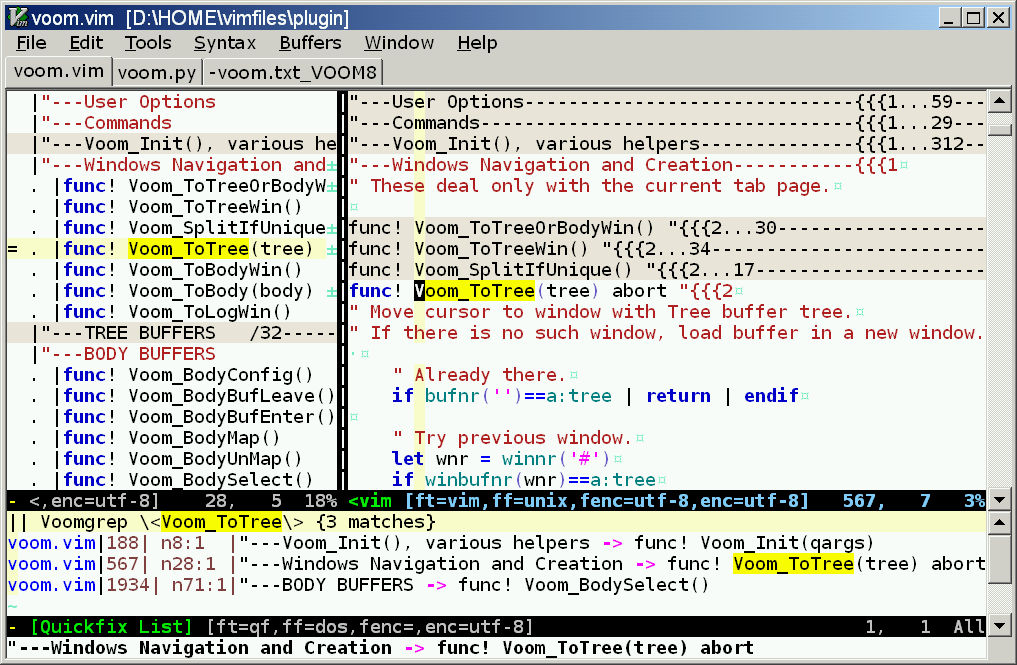
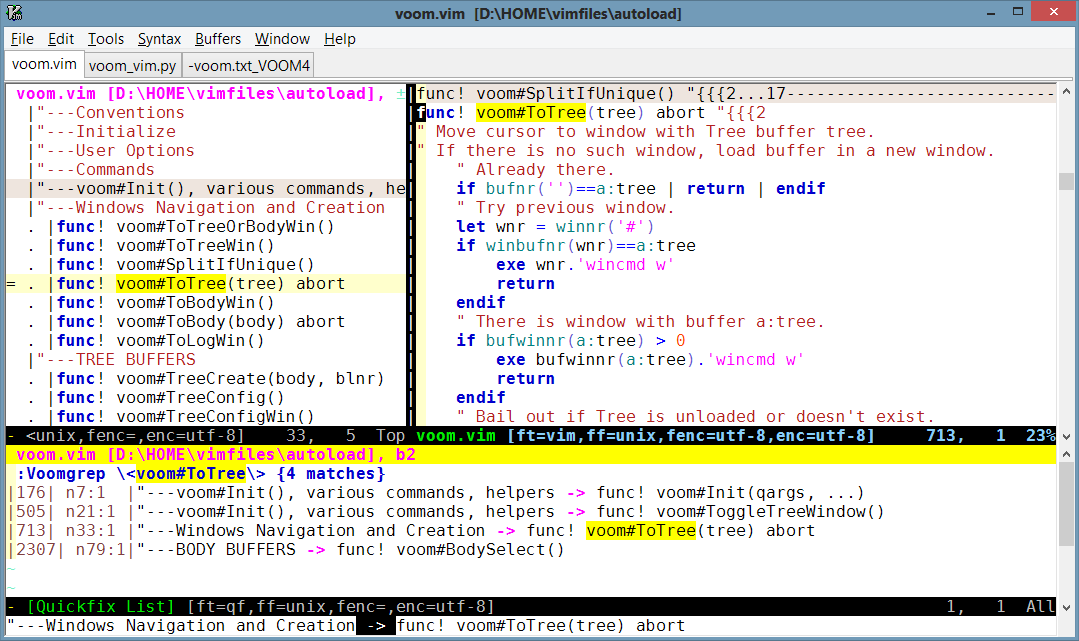
update for VOoM 5.0

diff --git a/index.html b/index.html
@@ -4,7 +4,6 @@
 <title>VOoM: two-pane text outliner</title>
 <meta http-equiv="Content-Language" content="en-us">
 <meta http-equiv="Content-Type" content="text/html; charset=ISO-8859-1">
-<meta name="keywords" content="Vim, VOoM, Vim outliner, VimOutliner, VO, The Vim Outliner, TVO, outliner, outlining, text outliner, two pane outliner, Leo, reStructuredText, markdown, pandoc, asciidoc, txt2tags, wiki, viki, org-mode, orgmode, LaTeX">
 <meta name="description" content="VOoM: Vim two-pane outliner.">
 
 <style type="text/css">
@@ -31,9 +30,25 @@ This page is for screenshots.</p>
 <a href="pics/voom_voomhelp.png"><img class="screenshot" src="pics/voom_voomhelp_small.gif" alt=""></a>
 </td>
 <td>
-Default outline layout after the command <b><tt>:Voom</tt></b>. Outline window (Tree buffer) is on the left.<br>
+The default outline layout after the command <b><tt>:Voom</tt></b>. The outline window (Tree buffer) is on the left.<br>
 <br>
-VOoM help ("doc/voom.txt") is written as an outline, as shown in this screenshot. Note that it uses non-default <a href="http://vimdoc.sourceforge.net/htmldoc/options.html#%27foldmarker%27">fold markers</a>. Otherwise, it's a standard Vim help file. Command <b><tt>:Voomhelp</tt></b> opens this help file as outline in a new tabpage.
+This screenshot shows VOoM help file, "doc/voom.txt", which is written as an outline. It is a standard Vim help file except that it uses non-default <a href="http://vimdoc.sourceforge.net/htmldoc/options.html#%27foldmarker%27">fold markers</a> set from a modeline at the bottom of the file. The command <b><tt>:Voomhelp</tt></b> opens this help file as an outline in a new tabpage.
+</td>
+</tr></table>
+<br><br>
+<hr>
+
+
+
+<!-- split windows {{{1 -->
+<a name="voomhelp_split"></a>
+<h2>split windows</h2>
+<table><tr>
+<td>
+<a href="pics/voom_voomhelp_split.png"><img class="screenshot" src="pics/voom_voomhelp_split_small.gif" alt=""></a>
+</td>
+<td>
+In this screenshot the Tree buffer (on the right) and the source buffer are each split in two windows to show different parts on the outline. VOoM Tree buffers (there is one for each source buffer) can be displayed in any number of different windows and tab pages, just like any other Vim buffer. It is also possible to have an entirely different outline view in another tab page.
 </td>
 </tr></table>
 <br><br>
@@ -51,9 +66,9 @@ VOoM help ("doc/voom.txt") is written as an outline, as shown in this screenshot
 <td>
 This is animated GIF, see full-size image (17 sec, 102 KB).<br>
 <br>
-VOoM can perform standard outline operations typically found in an outliner program: Insert New Headline, Move nodes Up/Down/Left/Right, Copy/Cut/Paste, Sort in various ways. In addition, outline operations can be applied to a <i>group of sibling nodes</i> in the Visual selection.<br>
+VOoM can perform standard outline operations typically found in an outliner program: Insert New Headline, Move nodes Up/Down/Left/Right, Copy/Cut/Paste, Sort in various ways. In addition, outline operations can be applied to <u>a group of sibling nodes</u> in Visual selection.<br>
 <br>
-This animation shows moving sibling nodes 'AA' and 'BB' Up: the two nodes are selected in the Tree buffer using Visual mode and then <tt>Ctrl-Up</tt> is pressed repeatedly (or <tt>^^</tt>, or <tt>&lt;LocalLeader&gt;u</tt>). Note that outline operation Move Up is automatically applied to subtrees, that is to top level nodes and all their descendants.
+This animation shows two sibling nodes "AA" and "BB" being moved Up: the two nodes are selected in the Tree buffer using Visual mode and then <tt>Ctrl-Up</tt> is pressed repeatedly (or <tt>^^</tt>, or <tt>&lt;LocalLeader&gt;u</tt>). Note that the outline operation Move Up is automatically applied to subtrees, that is to top level nodes and all their descendants.
 </td>
 </tr></table>
 <br><br>
@@ -69,45 +84,54 @@ This animation shows moving sibling nodes 'AA' and 'BB' Up: the two nodes are se
 <a href="pics/voom_rest.png"><img class="screenshot" src="pics/voom_rest_small.gif" alt=""></a>
 </td>
 <td>
-Command<br>
-<b><tt>:Voom&nbsp;rest</tt></b><br>
-creates outline from <a href="http://docutils.sourceforge.net/docs/ref/rst/restructuredtext.html#sections">reStructuredText (reST) section titles</a>.
-This screenshot shows outline of the source for <a href="http://docutils.sourceforge.net/docs/ref/rst/restructuredtext.html">reStructuredText specification</a> available <a href="http://docutils.sourceforge.net/docs/ref/rst/restructuredtext.txt">here</a>.
+The command<br>
+<b><tt>&nbsp;&nbsp;&nbsp;&nbsp;:Voom&nbsp;rest</tt></b><br>
+creates the outline from <a href="http://docutils.sourceforge.net/docs/ref/rst/restructuredtext.html#sections">reStructuredText (reST) section titles</a>.
+This screenshot shows the source for <a href="http://docutils.sourceforge.net/docs/ref/rst/restructuredtext.html">reStructuredText specification</a> available <a href="http://docutils.sourceforge.net/docs/ref/rst/restructuredtext.txt">here</a>.
 All major outline operations are supported and can be used to rearrange document sections.
+The command line area shows the current node's UNL (Uniform Node Locator) as echoed by the command <b><tt>:Voomunl</tt></b>.
 <br>
 <br>
 VOoM was originally written to work with
 <a href="http://vimdoc.sourceforge.net/htmldoc/fold.html#fold-marker">start fold markers with level numbers</a>,
-which is one of Vim's built-in folding methods and is a versatile outline markup.
+which is one of Vim's built-in folding methods and is the most versatile outline markup.
 <br><br>
-The current version can handle a variety of markups, including several popular
+VOoM can currently handle a variety of markups, including several popular
 <a href="http://en.wikipedia.org/wiki/Lightweight_markup_language">lightweight markup languages</a>.
 These markups have headlines (also called headings, headers, section headers, titles) and thus support an outline structure. VOoM can work with headlines in the following formats:
 <ul>
-<li><a href="http://vimdoc.sourceforge.net/htmldoc/fold.html#fold-marker">start fold markers with level numbers</a> (this is default)</li>
-<li><a href="http://en.wikipedia.org/wiki/Help:Wiki_markup#Sections">MediaWiki</a></li>
-<li><a href="http://www.vim.org/scripts/script.php?script_id=2226">vimwiki</a></li>
-<li><a href="http://www.vim.org/scripts/script.php?script_id=861">Viki/Deplate</a></li>
-<li><a href="http://orgmode.org/">Emacs Org-mode</a></li>
-<li><a href="http://docutils.sourceforge.net/rst.html">reStructuredText</a></li>
-<li><a href="http://daringfireball.net/projects/markdown/">Markdown</a> (both header styles, screenshot showing <a href="http://johnmacfarlane.net/pandoc/">Pandoc</a> README is <a href="pics/voom_markdown.png">here</a>)</li>
-<li><a href="http://txt2tags.org/">txt2tags</a> (screenshot is <a href="pics/voom_txt2tags.png">here</a>)
-<li><a href="http://www.methods.co.nz/asciidoc/">AsciiDoc</a> (both title formats, screenshot is <a href="pics/voom_asciidoc.png">here</a>)</li>
-<li><a href="http://en.wikipedia.org/wiki/LaTeX">LaTeX</a> (screenshot showing <a href="http://www.ctan.org/tex-archive/info/amslatex/primer">amshelp.tex</a> is <a href="pics/voom_latex.png">here</a>)</li>
-<li><a href="http://en.wikipedia.org/wiki/HTML_element#Basic_text">HTML heading tags</a> (single line only)</li>
-<li><a href="http://www.vim.org/scripts/script.php?script_id=517">The Vim Outliner</a></li>
-<li><a href="http://www.vim.org/scripts/script.php?script_id=3515">VimOutliner</a></li>
-<li><a href="http://www.vim.org/scripts/script.php?script_id=2027">TaskPaper</a></li>
-<li>Python code (like a class browser, but regions between "class" and "def" are also nodes)</li>
+<li><a href="http://vimdoc.sourceforge.net/htmldoc/fold.html#fold-marker">start fold markers with level numbers</a> (<tt>:Voom</tt>) This is the default format.</li>
+<li><a href="http://en.wikipedia.org/wiki/Help:Wiki_markup#Sections">MediaWiki</a> (<tt>:Voom&nbsp;wiki</tt>)</li>
+<li><a href="http://www.vim.org/scripts/script.php?script_id=2226">vimwiki</a> (<tt>:Voom&nbsp;vimwiki</tt>)</li>
+<li><a href="http://www.vim.org/scripts/script.php?script_id=861">Viki/Deplate</a> (<tt>:Voom&nbsp;viki</tt>)</li>
+<li><a href="http://orgmode.org/">Emacs Org-mode</a> (<tt>:Voom&nbsp;org</tt>)</li>
+<li><a href="http://docutils.sourceforge.net/rst.html">reStructuredText</a> (<tt>:Voom&nbsp;rest</tt>)</li>
+<li><a href="http://daringfireball.net/projects/markdown/">Markdown</a> (<tt>:Voom&nbsp;markdown</tt>). Standard Markdown, 
+	both header styles are recognized. This <a href="pics/voom_markdown.png">screenshot</a>
+	shows <a href="http://johnmacfarlane.net/pandoc/">Pandoc</a> README.</li>
+<li><a href="http://johnmacfarlane.net/pandoc/README.html#pandocs-markdown">Pandoc Markdown</a> (<tt>:Voom&nbsp;pandoc</tt>)</li>
+<li><a href="http://txt2tags.org/">txt2tags</a> (<tt>:Voom&nbsp;txt2tags</tt>) This <a href="pics/voom_txt2tags.png">screenshot</a> shows txt2tags user guide.
+<li><a href="http://www.methods.co.nz/asciidoc/">AsciiDoc</a> (<tt>:Voom&nbsp;asciidoc</tt>)
+	Both title formats are recognized. This <a href="pics/voom_asciidoc.png">screenshot</a> shows AsciiDoc user guide.</li>
+<li><a href="http://en.wikipedia.org/wiki/LaTeX">LaTeX</a> (<tt>:Voom&nbsp;latex</tt>)
+	This <a href="pics/voom_latex.png">screenshot</a> shows <a href="http://www.ctan.org/tex-archive/info/amslatex/primer">amshelp.tex</a>.</li>
+<li><a href="http://en.wikipedia.org/wiki/HTML_element#Basic_text">HTML heading tags</a> (<tt>:Voom&nbsp;html</tt>) Single lines only.</li>
+<li><a href="http://www.vim.org/scripts/script.php?script_id=517">The Vim Outliner</a> (<tt>:Voom&nbsp;thevimoutliner</tt>)</li>
+<li><a href="http://www.vim.org/scripts/script.php?script_id=3515">VimOutliner</a> (<tt>:Voom&nbsp;vimoutliner</tt>)</li>
+<li><a href="http://www.vim.org/scripts/script.php?script_id=2027">TaskPaper</a> (<tt>:Voom&nbsp;taskpaper</tt>)</li>
+<li>Python code (<tt>:Voom&nbsp;python</tt>). Like a class browser, but regions between "class" and "def" are also nodes.</li>
+<li>Miscellaneous other formats, see help file.</li>
 </ul>
 
 <a name="faq_1"></a>
 <p style="border-style:solid; border-width:1px; padding:10px;">
 <b>NOTE:</b> By default, the <b><tt>:Voom</tt></b> command without an argument
-creates outline from lines with start fold markers with level numbers.
+creates the outline from lines with start fold markers with level numbers.
 To outline another format, an argument specifying the desired markup mode must be provided.<br>
-For a Markdown (MultiMarkdown, Pandoc) file:<br>
+For standard Markdown format:<br>
 <b><tt>&nbsp;&nbsp;&nbsp;&nbsp;:Voom&nbsp;markdown</tt></b><br>
+For Pandoc Markdown:<br>
+<b><tt>&nbsp;&nbsp;&nbsp;&nbsp;:Voom&nbsp;pandoc</tt></b><br>
 For an Orgmode file:<br>
 <b><tt>&nbsp;&nbsp;&nbsp;&nbsp;:Voom&nbsp;org</tt></b><br>
 And so on. There is argument completion -- type <tt>":Voom&nbsp;"</tt> and press <tt>&lt;Tab&gt;</tt> or <tt>&lt;C-d&gt;</tt>.<br>
@@ -129,18 +153,18 @@ See also help for g:voom_ft_modes and g:voom_default_mode.
 <a href="pics/voom_pylog.png"><img class="screenshot" src="pics/voom_pylog_small.gif" alt=""></a>
 </td>
 <td>
-The Python Log buffer, __PyLog__, is created by the command <b><tt>:Voomlog</tt></b>. When present, Python <tt>stdout</tt> and <tt>stderr</tt> are printed to it instead of on Vim command line.<br>
+The Python Log buffer, <tt>__PyLog__</tt>, is created by the command <b><tt>:Voomlog</tt></b>. When present, Python's <tt>sys.stdout</tt> and <tt>sys.stderr</tt> are appended to it instead of printed on Vim command line.<br>
 <br>
-The __PyLog__ buffer is modeled after the log pane of <a href="http://webpages.charter.net/edreamleo/front.html">Leo outlining editor</a>. The Vim tab page in the screenshot emulates the default layout of Leo panes: tree pane (top left), log pane (top right), body pane (below).
+The __PyLog__ buffer is modeled after the log pane of <a href="http://leoeditor.com/">Leo outlining editor</a>. The Vim tab page in the screenshot emulates the default layout of Leo panes: the tree pane (top left), the log pane (top right), the body pane (below).
 <br>
 <br>
 Several other VOoM features were inspired by Leo:<br>
 <ul>
-<li>The <b><tt>:Voomexec</tt></b> command is like Leo's <a href="http://webpages.charter.net/edreamleo/commands.html#executing-python-scripts-in-body-text">Execute Script</a> command when executed in a node which contains the @others directive. Currently, Vim and Python scripts can be executed this way. (<i>A Python file with code snippets organized via fold markers, plus the command :Voomexec, plus the PyLog buffer is an alternative to running Python's interactive interpreter.</i>)<br><br></li>
+<li>The <b><tt>:Voomexec</tt></b> command is like Leo's <a href="http://leoeditor.com/commands.html#executing-python-scripts-in-body-text">Execute Script</a> command when executed in a node which contains the @others directive. Currently, Vim and Python scripts can be executed this way. (A Python file with code snippets organized via fold markers, plus the command :Voomexec, plus the PyLog buffer is an alternative to running Python's interactive interpreter.)<br><br></li>
 
-<li>Outline operations <b><tt>Mark/Unmark</tt></b> are modeled after <a href="http://webpages.charter.net/edreamleo/commands.html#marking-nodes">similar Leo commands</a>.<br><br></li>
+<li>Outline operations <b><tt>Mark/Unmark</tt></b> (when working with fold markers) are modeled after <a href="http://leoeditor.com/commands.html#marking-nodes">similar Leo commands</a>.<br><br></li>
 
-<li>VOoM can save which nodes in the Tree are expanded/contracted and which node is the selected node. The difference from Leo is that this is done manually via Tree-local commands and mappings (<tt>:[range]VoomFoldingSave</tt>, <tt>:[range]VoomFoldingRestore</tt>).</li>
+<li>VOoM can save which nodes in the Tree are expanded/contracted and which node is the selected node (when working with fold markers). The difference from Leo is that this is done manually via Tree-local commands and mappings (<tt>:[range]VoomFoldingSave</tt>, <tt>:[range]VoomFoldingRestore</tt>).</li>
 </ul>
 </td>
 </tr></table>
@@ -158,14 +182,14 @@ Several other VOoM features were inspired by Leo:<br>
 </td>
 <td>
 The command line area shows output of the command <b><tt>:Voomunl</tt></b>.<br>
-It is UNL (Uniform Node Locator) of node under the cursor. (The term is from Leo's <a href="http://webpages.charter.net/edreamleo/plugins.html#unl-py">unl.py plugin</a>.) An UNL is like a path to the node. It lists headlines of all ancestor nodes.<br>
+It is UNL (Uniform Node Locator) of node under the cursor. The term is from <a href="http://leoeditor.com/plugins.html#unl-py">Leo UNL.py plugin</a>. An UNL is like a path to the node. It lists headlines of all ancestor nodes.<br>
 <br>
 The Quickfix window shows output of the command <b><tt>:Voomgrep</tt></b>.<br>
 It is like <tt>:vimgrep</tt> followed by <tt>:copen</tt>, but instead of showing matching lines it shows matching nodes and their UNLs. In this Vim script file, nodes are mostly functions. So, executing<br>
 <b><tt>:Voomgrep some_name</tt></b><br>
-produces list of functions in which &quot;some_name&quot; is used.<br>
+produces a list of functions in which &quot;some_name&quot; is used.<br>
 <br>
-The command <b><tt>:Voomgrep</tt></b> can also perform boolean AND and NOT searches.
+The command <b><tt>:Voomgrep</tt></b> can also perform boolean AND/NOT searches and hierarchical searches (<a href="http://orgmode.org/org.html#Tag-inheritance">tag inheritance</a>).
 </td>
 </tr></table>
 <br><br>
@@ -184,7 +208,9 @@ The command <b><tt>:Voomgrep</tt></b> can also perform boolean AND and NOT searc
 A two-pane text outliner makes an excellent organizer of bookmarks and various notes.
 <br>
 <br>
-Vim can be configured to highlight URL links (http://..., ftp://..., file:///...) and to launch them with mouse clicks or other keys. Several Vim plugins show how to do that, e.g., <a href="http://www.vim.org/scripts/script.php?script_id=293">utl.vim</a>.
+Vim can be configured to highlight URL links (http://..., ftp://..., file:///...) and to launch them with mouse clicks or other keys. Several Vim plugins show how to do that, e.g.,
+<a href="http://www.vim.org/scripts/script.php?script_id=1075">netrw</a>'s gx command,
+<a href="http://www.vim.org/scripts/script.php?script_id=293">utl.vim</a>.
 <br>
 <br>
 The command <b><tt>:Voomgrep</tt></b> is handy for finding data in a large, database-like outline, especially when there is a tagging system.
@@ -198,15 +224,15 @@ Since VOoM is not a "filetype" plugin, it should be compatible with almost any p
 
 
 
-<!-- console {{{1 -->
-<a name="console"></a>
-<h2>console Vim</h2>
+<!-- terminal {{{1 -->
+<a name="terminal"></a>
+<h2>terminal Vim</h2>
 <table><tr>
 <td>
 <a href="pics/voom_console.png"><img class="screenshot" src="pics/voom_console_small.gif" alt=""></a>
 </td>
 <td>
-Tree buffer and PyLog buffer in console Vim on Windows. VOoM works with console Vim just as well as with GUI Vim. It should even be usable when 'compatible' is set.
+VOoM Tree buffer and __PyLog__ buffer in console Vim on Windows. VOoM works with terminal Vim just as well as with GUI Vim. It should even be usable when 'compatible' is set.
 </td>
 </tr></table>
 <br><br>
@@ -222,7 +248,7 @@ Tree buffer and PyLog buffer in console Vim on Windows. VOoM works with console 
 <a href="pics/voom_linux1.png"><img class="screenshot" src="pics/voom_linux1_small.gif" alt=""></a>
 </td>
 <td>
-Linux, GUI Vim, looking at <a href="http://www.vim.org/scripts/script.php?script_id=1075">netrw.vim</a>. PyLog buffer is open below. Another screenshot is <a href="pics/voom_markdown.png">here</a>.<br>
+Linux, GUI Vim. Shown are $VIMRUNTIME/autoload/netrw.vim, its outline, the __PyLog__ buffer. Another Linux screenshot is <a href="pics/voom_markdown.png">here</a>.<br>
 <br>
 The VOoM plugin is cross-platform. It should work on any system with Python 2.x and vim/gvim compiled with the <a href="http://vimdoc.sourceforge.net/htmldoc/if_pyth.html">Python interface</a>.
 </td>
